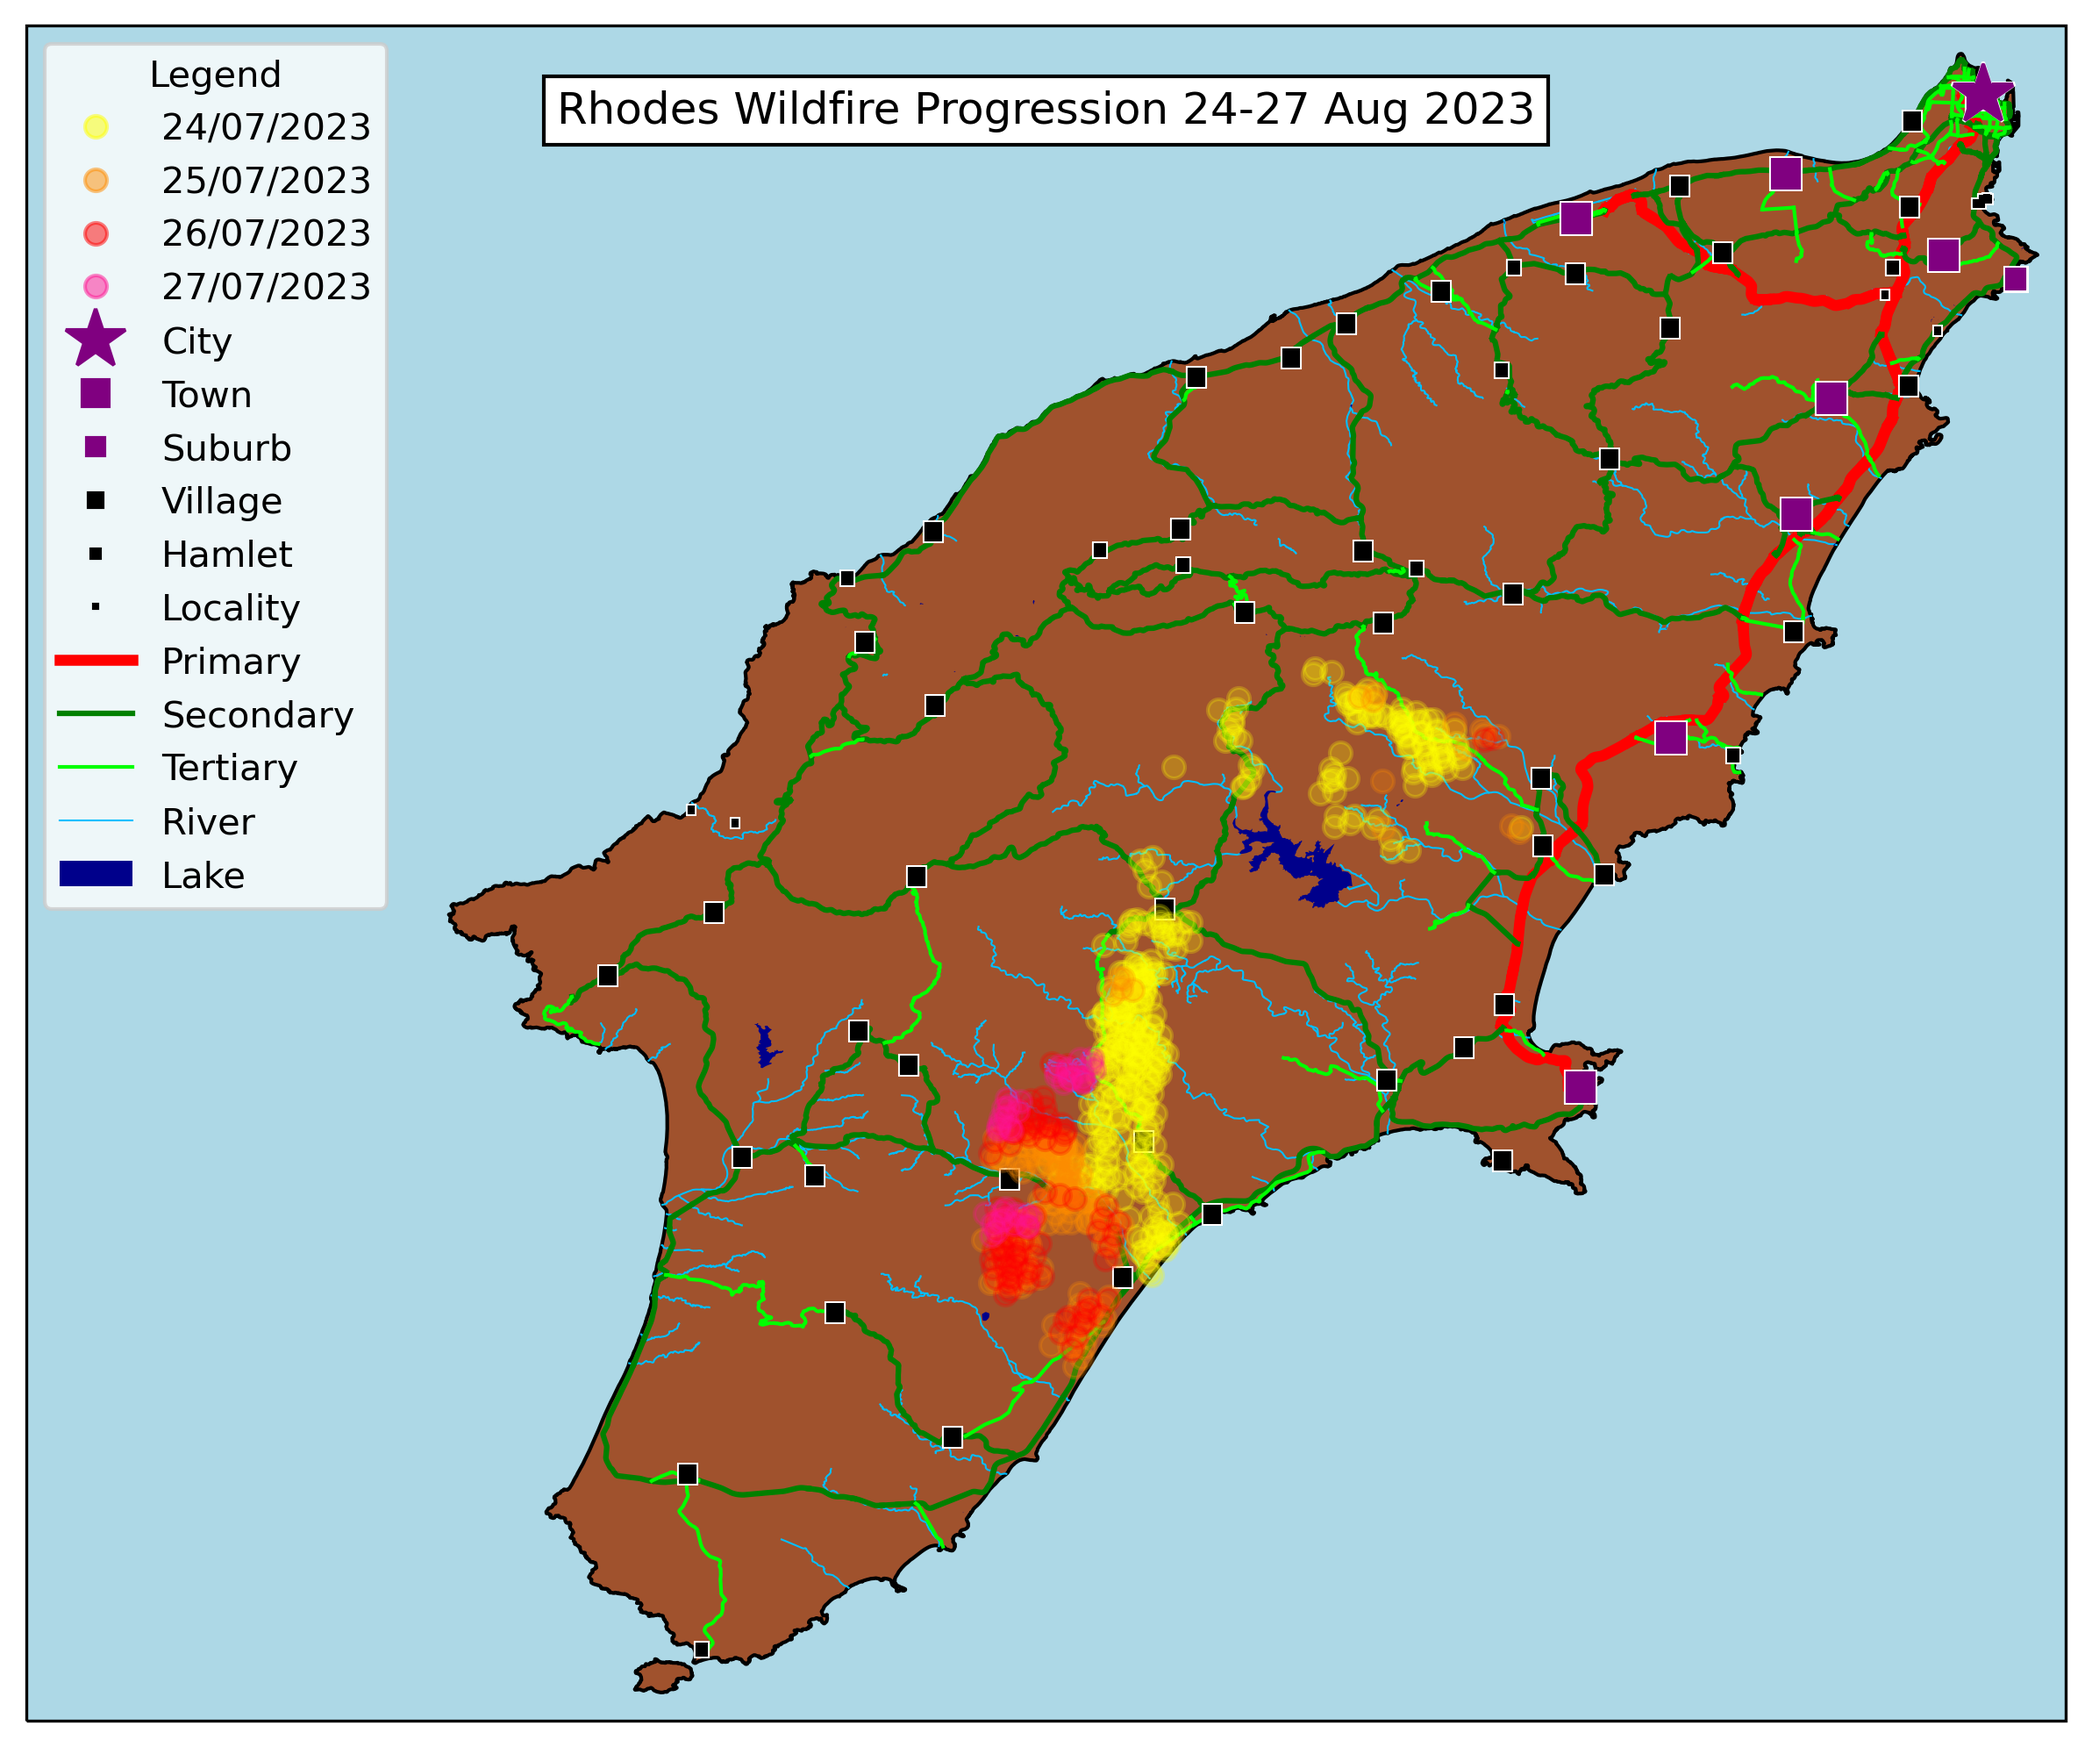
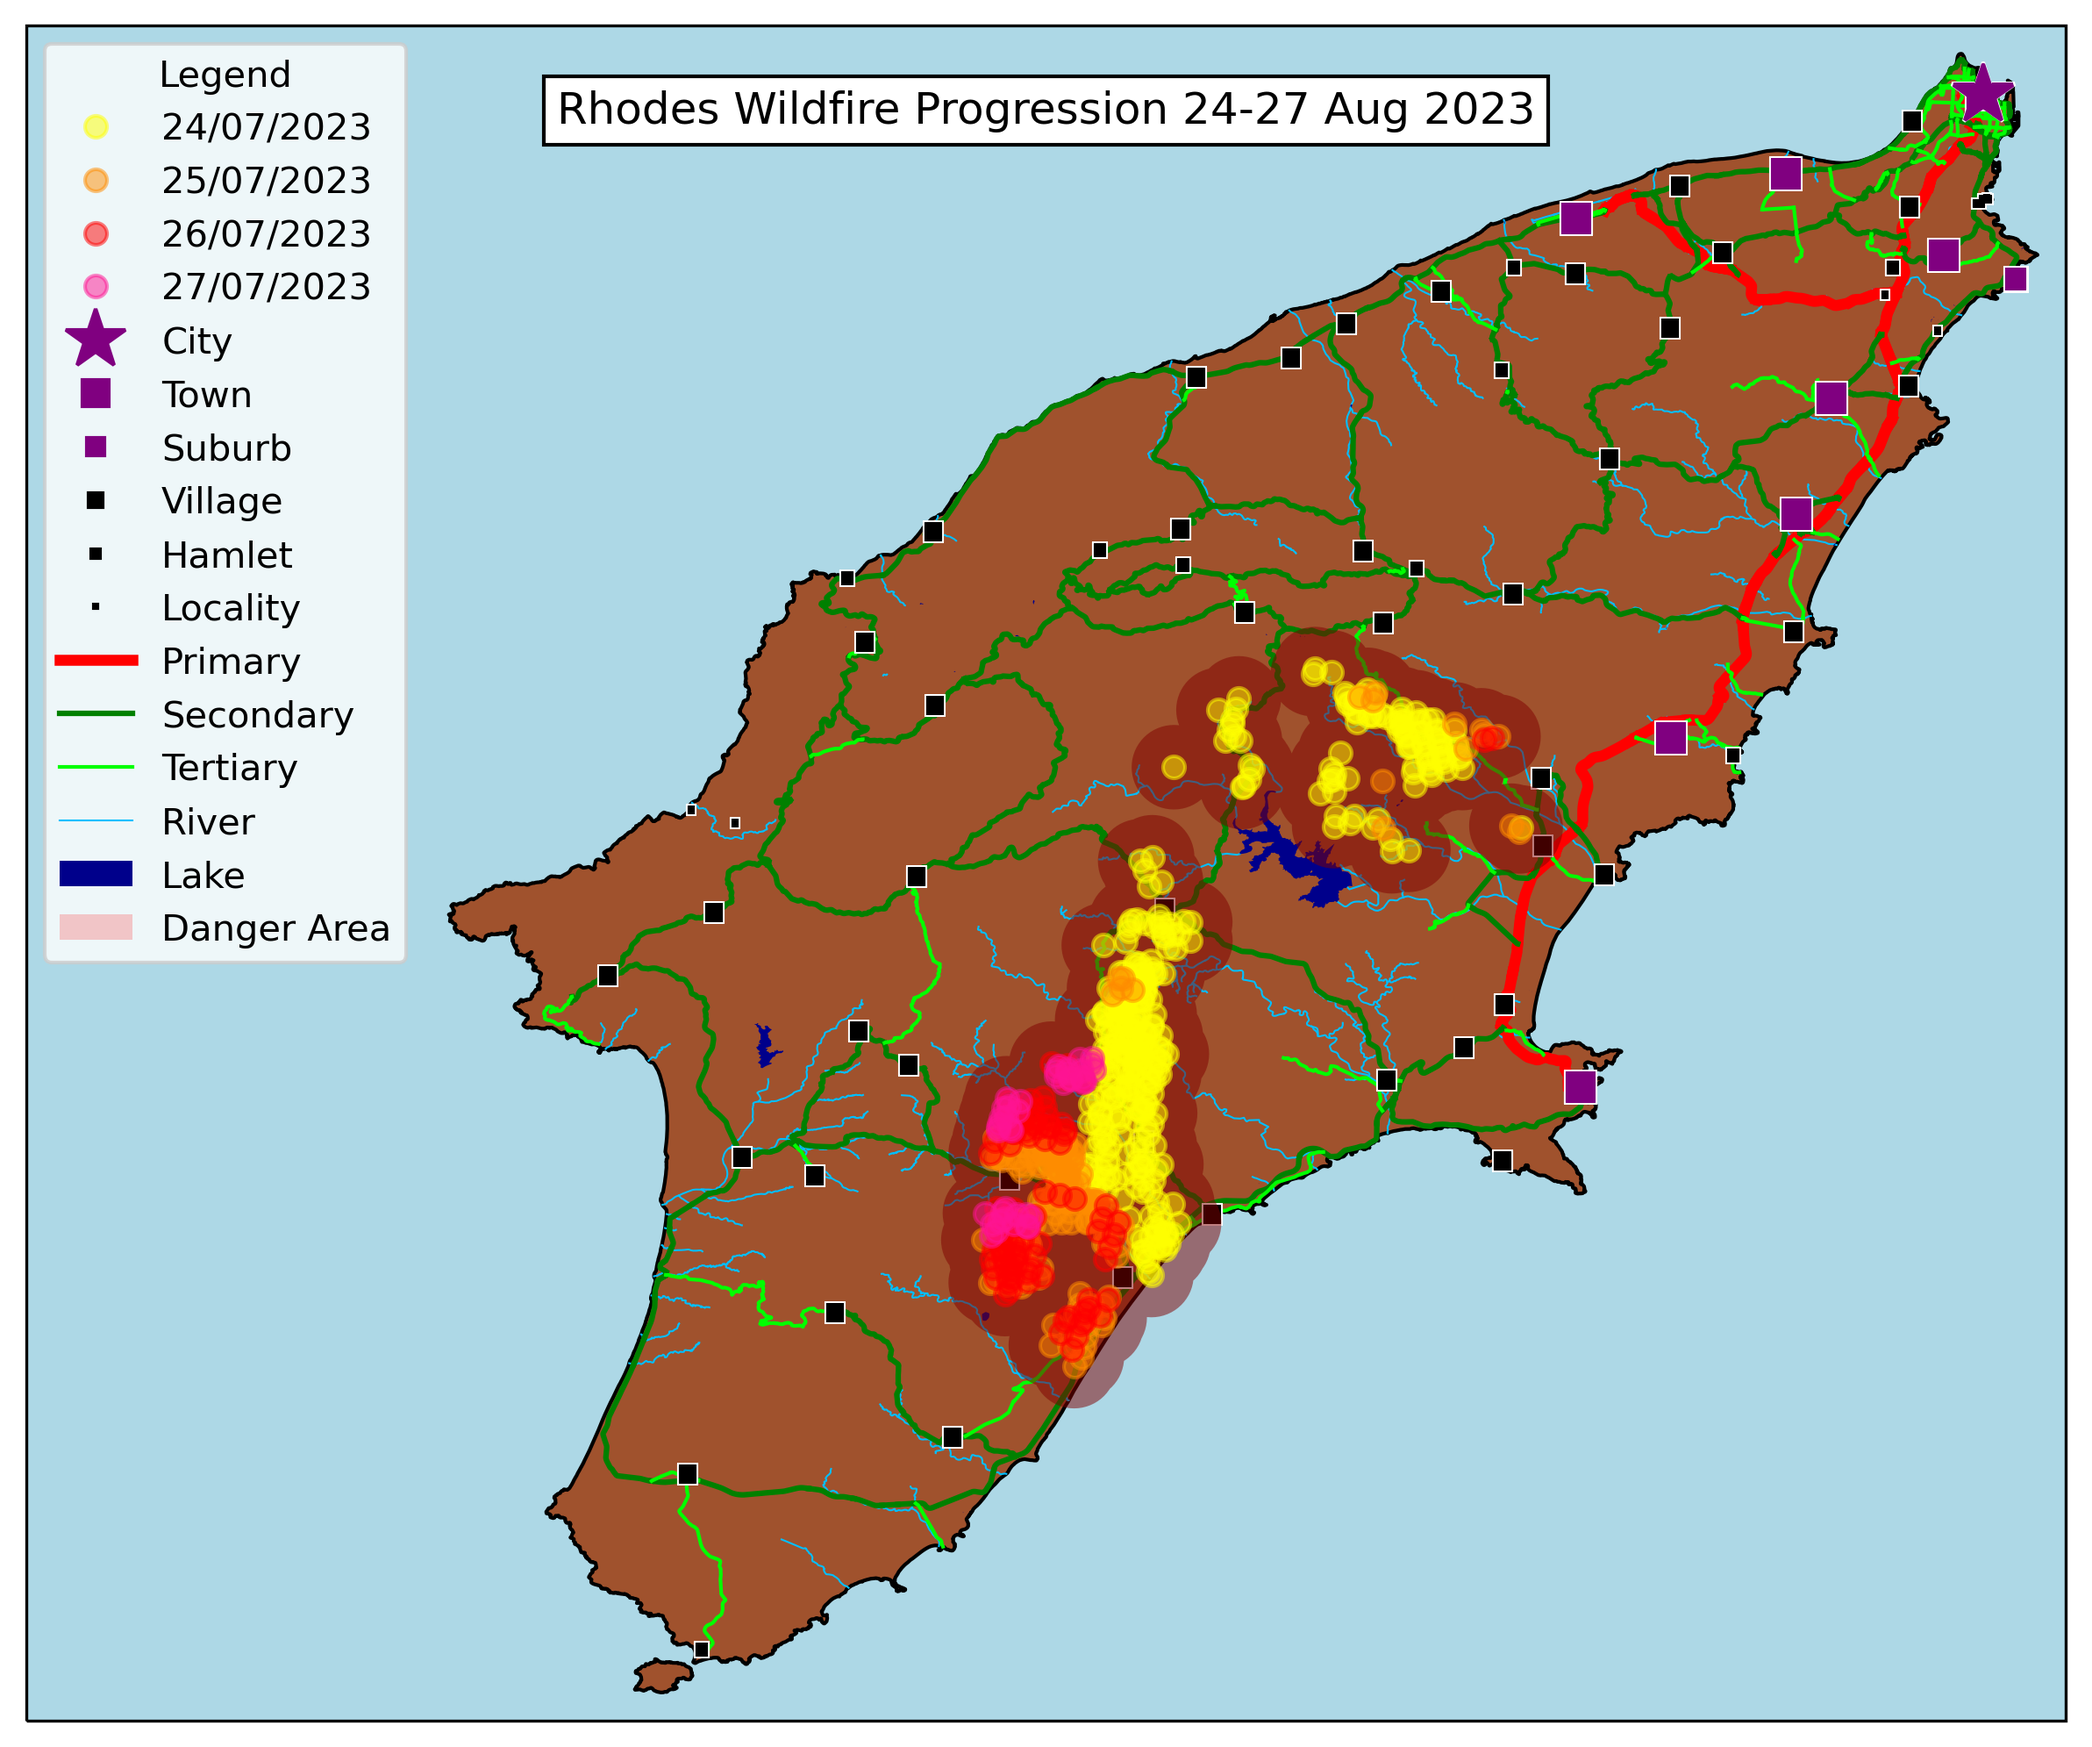
Final commit

diff --git a/Python Code.py b/Python Code.py
@@ -6,6 +6,26 @@ import cartopy.crs as ccrs
 import matplotlib.patches as mpatches
 import matplotlib.lines as mlines
 
+# loads the datasets to be displayed on the map
+BUA = gpd.read_file(os.path.abspath('AssessmentData/BUA.shp'))
+Lake = gpd.read_file(os.path.abspath('AssessmentData/Lake.shp'))
+River = gpd.read_file(os.path.abspath('AssessmentData/River.shp'))
+Road = gpd.read_file(os.path.abspath('AssessmentData/RoadsRefine.shp'))
+Fire = gpd.read_file(os.path.abspath('AssessmentData/VIIRS_points.shp'))
+
+# creates a page size of 10x10 inches
+myFig = plt.figure(figsize=(10, 10))
+
+# creates a Universal Transverse Mercator (UTM) coordinate system to transform data
+myCRS = ccrs.UTM(35)
+
+# loads the boundary of Rhodes island as the land extent and analysis area
+outline = gpd.read_file(os.path.abspath('AssessmentData/RhodesBnd.shp'))
+outline_feature = ShapelyFeature(outline['geometry'], myCRS, edgecolor='k', facecolor='sienna', linewidth=1)
+
+# create axis object in the figure using the UTM projection to plot data.
+ax = plt.axes(projection=myCRS)
+
 # creates a dictionary to assign fire dates to colors and sizes
 fire_styles = {
     '24/07/2023': {'colour': 'yellow', 'size': 6},
@@ -35,37 +55,6 @@ road_type_styles = {
 
     }
 
-# generates matplotlib handles to create a legend of features to be used within the map
-def generate_handles(labels, colors, halo_color='white', edge='k', alpha=1):
-    lc = len(colors)  # get the length of the color list
-    handles = []
-    for i in range(len(labels)):
-        # Create a rectangle with white halo and specified face color
-        rect = mpatches.Rectangle((0, 0), 1, 1, facecolor=colors[i % lc], edgecolor=edge, alpha=alpha, linewidth=0.5, linestyle='dashed', hatch='////', joinstyle='round')
-        handles.append(rect)
-    return handles
-
-# loads the datasets to be displayed on the map
-BUA = gpd.read_file(os.path.abspath('AssessmentData/BUA.shp'))
-Lake = gpd.read_file(os.path.abspath('AssessmentData/Lake.shp'))
-River = gpd.read_file(os.path.abspath('AssessmentData/River.shp'))
-Road = gpd.read_file(os.path.abspath('AssessmentData/RoadsRefine.shp'))
-Fire = gpd.read_file(os.path.abspath('AssessmentData/VIIRS_points.shp'))
-
-# creates a page size of 10x10 inches
-myFig = plt.figure(figsize=(10, 10))
-
-# creates a Universal Transverse Mercator (UTM) coordinate system to transform data
-myCRS = ccrs.UTM(35)
-
-# loads the boundary of Rhodes island as the land extent and analysis area
-outline = gpd.read_file(os.path.abspath('AssessmentData/RhodesBnd.shp'))
-outline_feature = ShapelyFeature(outline['geometry'], myCRS, edgecolor='k', facecolor='sienna', linewidth=1)
-
-# create axis object in the figure using the UTM projection to plot data.
-ax = plt.axes(projection=myCRS)
-
-
 # draws BUA features with hierarchical symbology
 bua_legend_handles = []
 
@@ -73,7 +62,7 @@ for bua_class in bua_styles.keys():
     style = bua_styles[bua_class]
     bua_class_features = BUA[BUA['fclass'] == bua_class]
 
-    # Plot the white-filled BUA features for the halo effect
+    # plots the BUA features with a white halo effect
     ax.plot(bua_class_features['geometry'].x, bua_class_features['geometry'].y, marker=style['marker'], color='white', linestyle='None', markersize=style['size'] + 1, zorder=5)
 
     # Plot the actual BUA features
@@ -82,7 +71,7 @@ for bua_class in bua_styles.keys():
     # Add legend handles
     bua_legend_handles.append(mlines.Line2D([], [], color=style['colour'], marker=style['marker'], markersize=style['size'], linestyle='None', label=bua_class))
 
-# Draws road features with a set hierarchy to draw in that order
+# draws road features with a set hierarchy to draw in that order
 road_legend_handles = []
 for road_type_name in ['primary', 'primary_link', 'secondary', 'secondary_link', 'tertiary', 'track']:
     if road_type_name in road_type_styles:
@@ -92,7 +81,7 @@ for road_type_name in ['primary', 'primary_link', 'secondary', 'secondary_link',
             ax.add_line(mlines.Line2D(*geom.xy, color=style['colour'], linewidth=style['width'], zorder=4))
         road_legend_handles.append(mlines.Line2D([], [], color=style['colour'], linewidth=style['width'], label=road_type_name))
 
-# Draws fire points with symbology defined by acquisition date and apply transparency
+# draws fire points with symbology defined by acquisition date and apply transparency
 fire_legend_handles = []
 for acq_date in fire_styles.keys():
     style = fire_styles[acq_date]
@@ -100,11 +89,11 @@ for acq_date in fire_styles.keys():
     if not fire_date_features.empty:
         for geom in fire_date_features['geometry']:
             ax.plot(geom.x, geom.y, marker='o', color=style['colour'], markersize=style['size'],
-                    markeredgecolor=style['colour'], linestyle='None', label=acq_date, zorder=7, alpha=0.25)
+                    markeredgecolor=style['colour'], linestyle='None', label=acq_date, zorder=8, alpha=0.5)
         fire_legend_handles.append(mlines.Line2D([], [], color=style['colour'], marker='o', markersize=style['size'],
                                                  linestyle='None', label=acq_date, alpha=0.5))
 
-# Draws river lines
+# draws river lines
 river_color = 'deepskyblue'
 river_size = 0.5
 river_legend_handles = [mlines.Line2D([], [], color=river_color, linewidth=river_size, label='River')]
@@ -113,13 +102,27 @@ for geom in River['geometry']:
     x, y = geom.xy
     ax.plot(x, y, color=river_color, linewidth=river_size, zorder=2)
 
-# Draws lake polygons
+# draws lake polygons
 lake_color = 'darkblue'
 lake_features = Lake
 lake_shapes = [geom for geom in lake_features['geometry']]
 lake_feature = ShapelyFeature(lake_shapes, myCRS, facecolor=lake_color, label='Lake', zorder=3)
 ax.add_feature(lake_feature)
 lake_legend_handles = [mpatches.Patch(facecolor=lake_color, label='Lake')]
+
+# creates a buffer around the fire points and dissolves into a single polygon
+fire_buffer = Fire.buffer(distance=0.015)  # Buffer distance of approximately 1500 meters
+fire_buffer = fire_buffer.unary_union
+
+# converts the dissolved buffer to a GeoDataFrame
+fire_buffer_gdf = gpd.GeoDataFrame(geometry=[fire_buffer])
+
+# plots the dissolved buffer with transparency
+fire_buffer_feature = ShapelyFeature(fire_buffer_gdf['geometry'], myCRS, facecolor='maroon', edgecolor='none', alpha=0.5, zorder=7)
+ax.add_feature(fire_buffer_feature)
+
+# creates a legend handle for the fire buffer area
+buffer_legend_handle = mpatches.Patch(facecolor='red', edgecolor='none', alpha=0.2, label='Danger Area')
 
 # adds the created features to the map.
 xmin, ymin, xmax, ymax = outline.total_bounds
@@ -128,39 +131,53 @@ ax.add_feature(outline_feature)
 # using the boundary of the shapefile features, zoom the map to the area of interest
 ax.set_extent([xmin-0.15, xmax+0.01, ymin-0.01, ymax+0.01], crs=myCRS)
 
-# Add a colored background
+# adds a colored background
 ax.add_patch(plt.Rectangle((xmin - 5000, ymin - 5000), xmax - xmin + 10000, ymax - ymin + 10000, facecolor='lightblue'))
+# generates matplotlib handles to create a legend of features to be used within the map
+
+def generate_handles(labels, colors, halo_color='white', edge='k', alpha=1):
+    lc = len(colors)  # get the length of the color list
+    handles = []
+    for i in range(len(labels)):
+        # Create a rectangle with white halo and specified face color
+        rect = mpatches.Rectangle((0, 0), 1, 1, facecolor=colors[i % lc], edgecolor=edge, alpha=alpha, linewidth=0.5, linestyle='dashed', hatch='////', joinstyle='round')
+        handles.append(rect)
+    return handles
 
 legend_handles = []
 
-# Add fire legend handles to the legend
+# adds fire legend handles to the legend
 legend_handles.extend(fire_legend_handles)
 
-# Add BUA legend handles as per feature sizes and capitalize the first letter in the label
+# adds BUA legend handles as per feature sizes and capitalize the first letter in the label
 for bua_legend_handle in bua_legend_handles:
     label = bua_legend_handle.get_label()
     capitalized_label = label.title()
     legend_handles.append(mlines.Line2D([], [], color=bua_legend_handle.get_color(), marker=bua_legend_handle.get_marker(), markersize=bua_legend_handle.get_markersize(), linestyle='None', label=capitalized_label))
 
-# Add road legend handles as per feature sizes and capitalize the first letter in the label
+# adds road legend handles as per feature sizes and capitalize the first letter in the label
 for road_legend_handle in road_legend_handles:
     label = road_legend_handle.get_label()
     capitalized_label = label.title()
     legend_handles.append(mlines.Line2D([], [], color=road_legend_handle.get_color(), linewidth=road_legend_handle.get_linewidth(), label=capitalized_label))
 
-# Add river legend handles to the legend
+# adds river legend handles to the legend
 legend_handles.extend(river_legend_handles)
 
-# Add lake legend handles to the legend
+# adds lake legend handles to the legend
 legend_handles.extend(lake_legend_handles)
 
-# Create the legend
+# adds buffer legend handle to the legend handles list
+legend_handles.append(buffer_legend_handle)
+
+# creates the legend
 plt.legend(handles=legend_handles, title='Legend', loc='upper left')
 
-# Add a title text box to the top center of the map
+# adds a title text box to the top center of the map
 title_text = "Rhodes Wildfire Progression 24-27 Aug 2023"
 bbox_props = dict(boxstyle="square,pad=0.3", facecolor='white', edgecolor='black', linewidth=1)
 ax.text(0.5, 0.95, title_text, transform=ax.transAxes, fontsize=12, ha='center', va='center', bbox=bbox_props)
 
-# save the figure as map.png, cropped to the axis (bbox_inches='tight'), and a dpi of 300
+# saves the figure as map.png, cropped to the axis (bbox_inches='tight'), and a dpi of 300
 myFig.savefig('RhodesFireMap.png', bbox_inches='tight', dpi=300)
+
